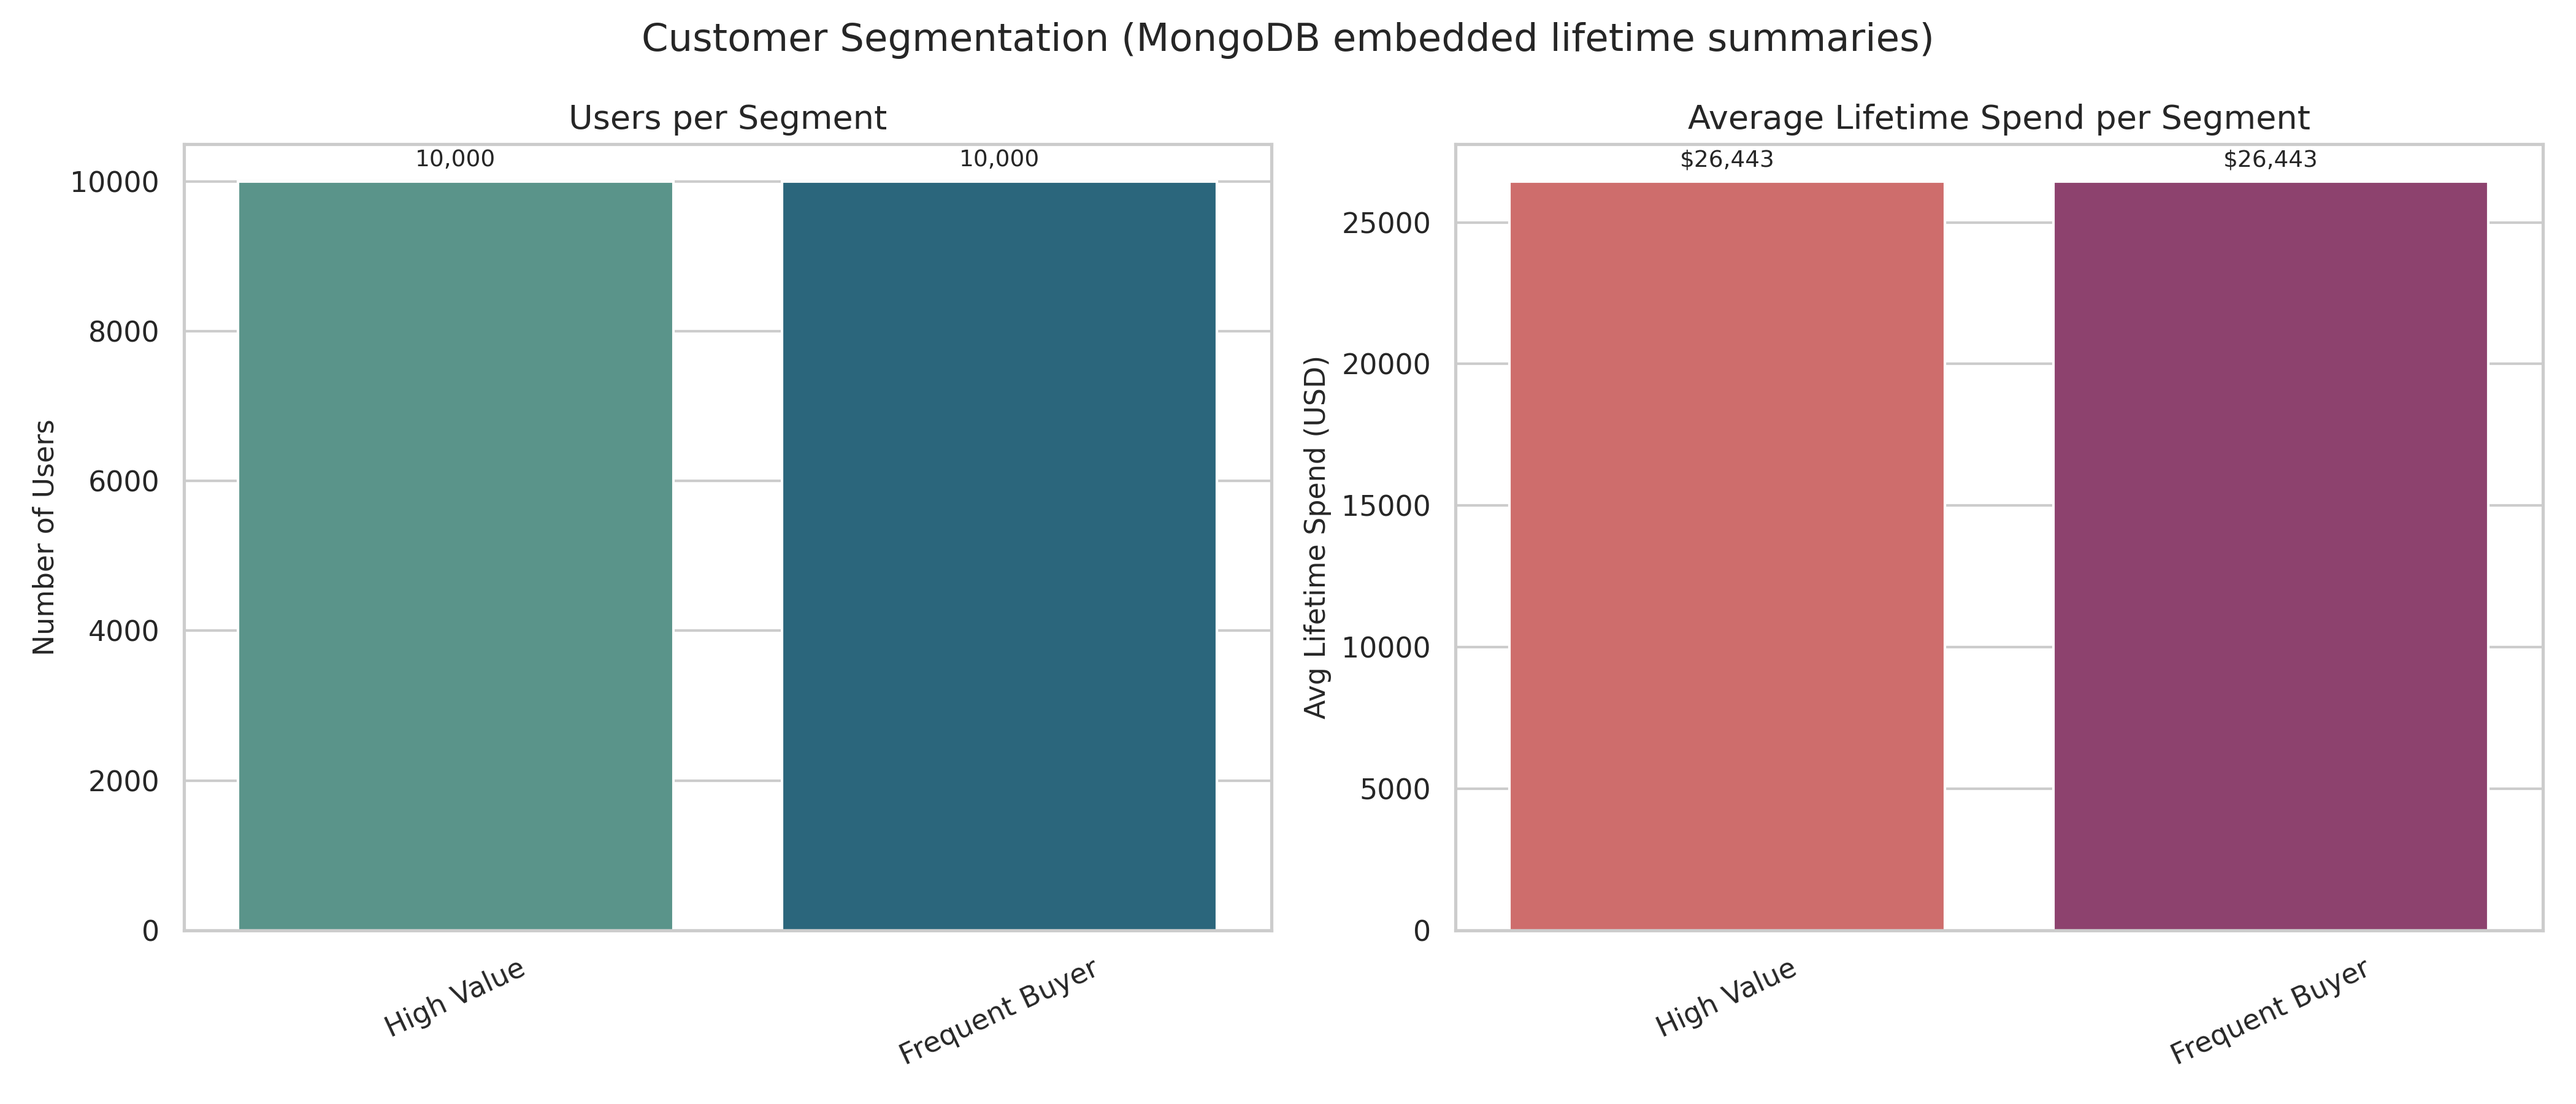
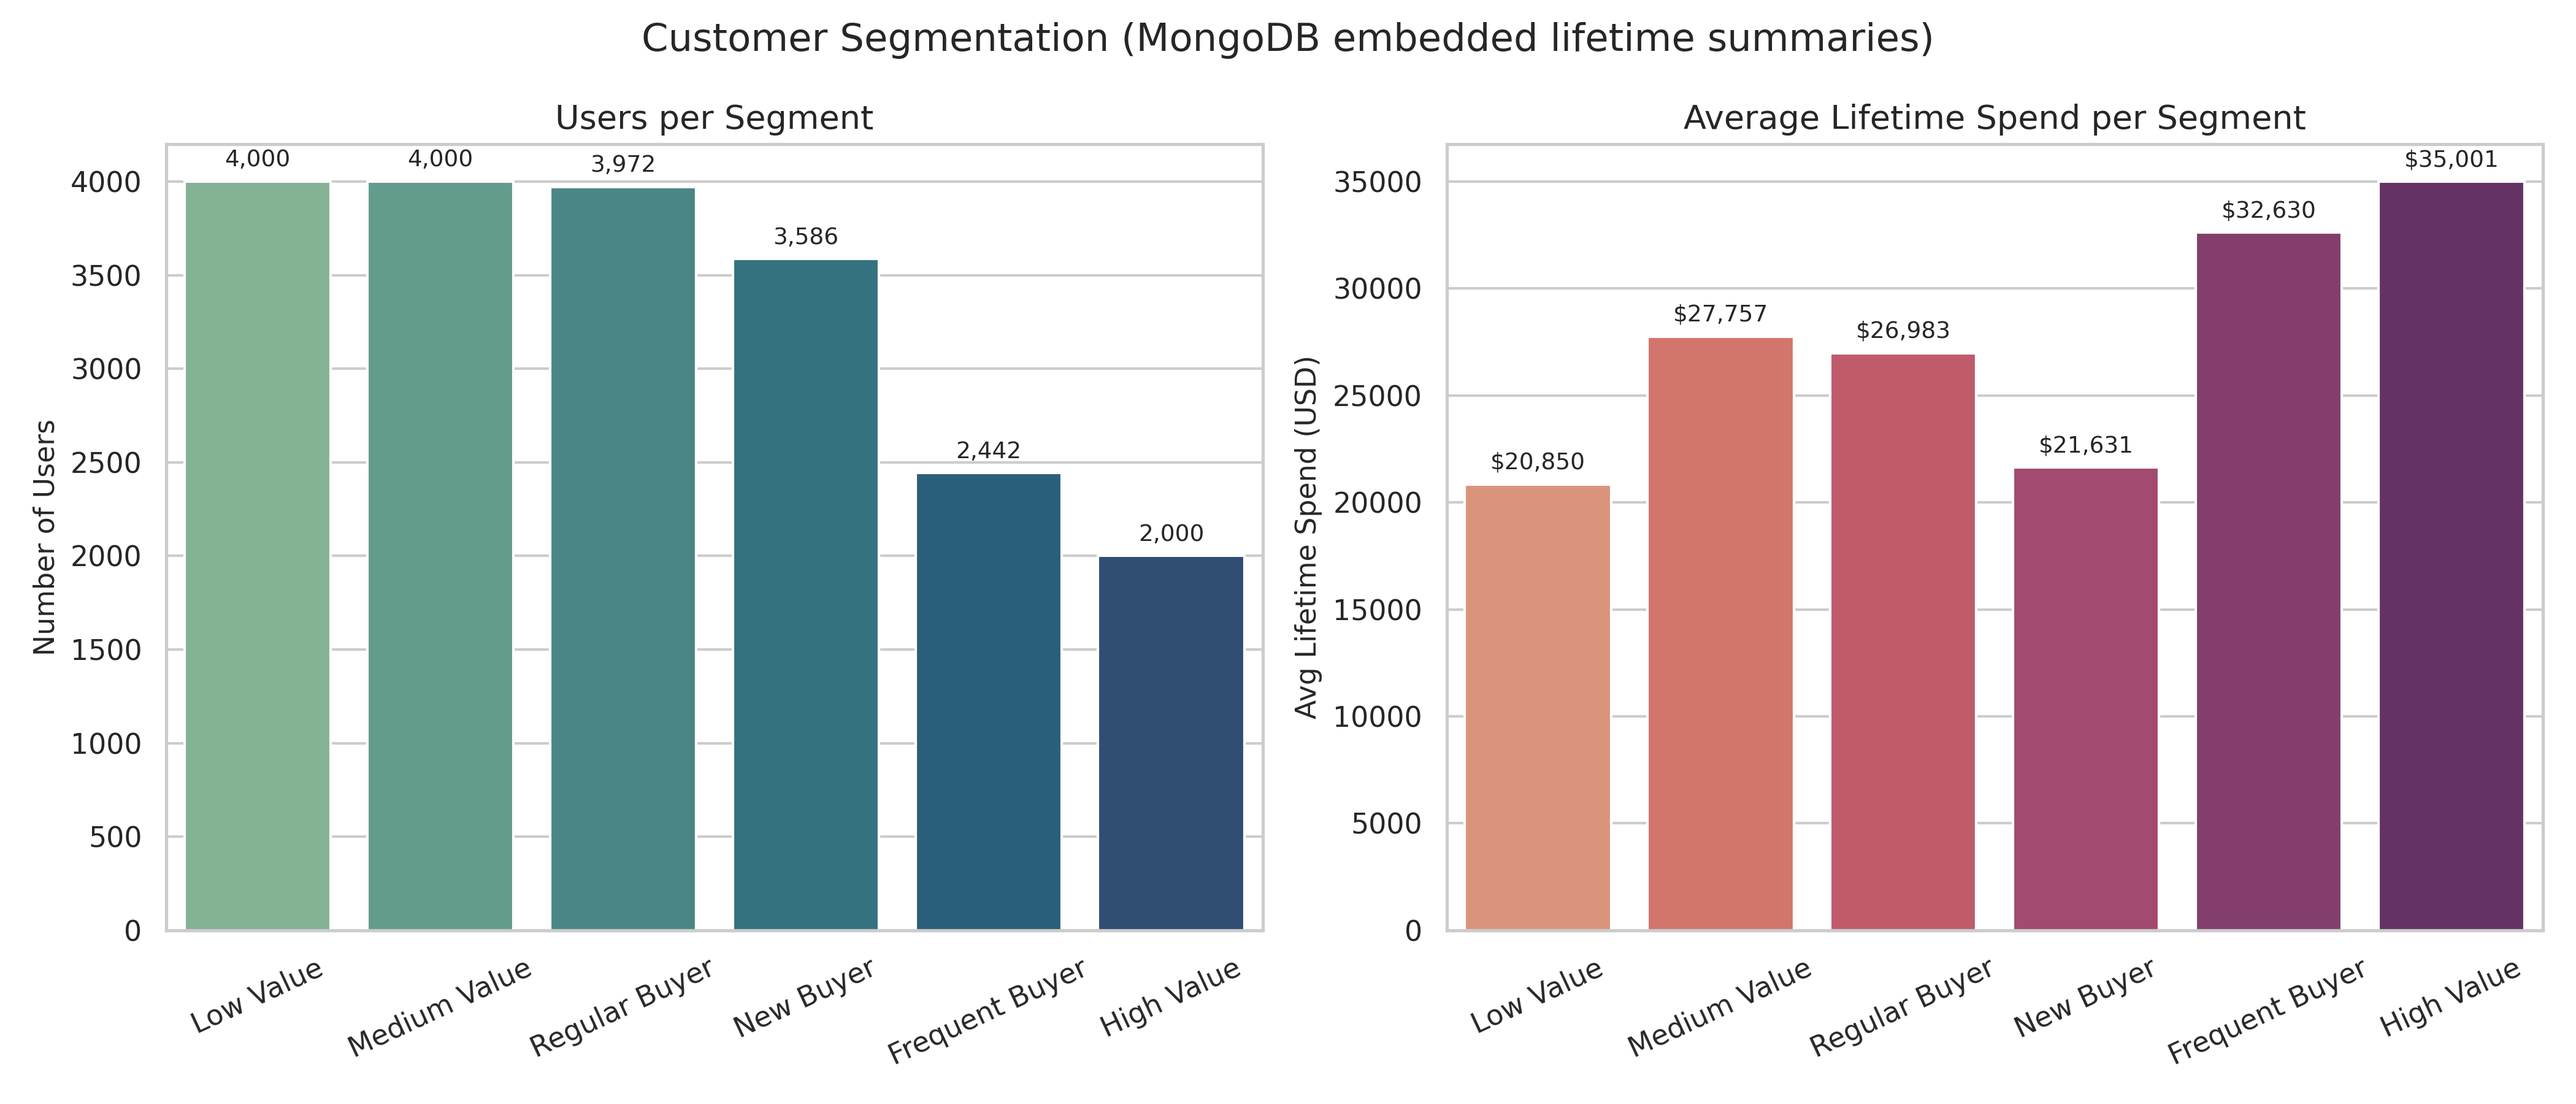
Fix: small bugs

diff --git a/1_load_to_mongodb.py b/1_load_to_mongodb.py
@@ -267,6 +267,9 @@ def load_mongodb():
     for result in db.transactions.aggregate(pipeline):
         user_stats[result["_id"]] = result
 
+    # Derive segment boundaries from the observed distribution before tagging
+    thresholds = compute_segmentation_thresholds(user_stats)
+
     # Update users with their lifetime summaries
     for user_id, stats in user_stats.items():
         db.users.update_one(
@@ -279,7 +282,7 @@ def load_mongodb():
                     "lifetime_summary.first_purchase_date": stats["first_purchase"],
                     "lifetime_summary.last_purchase_date": stats["last_purchase"],
                     # Add segmentation tag based on spending
-                    "segmentation_tags": get_segmentation_tags(stats),
+                    "segmentation_tags": get_segmentation_tags(stats, thresholds),
                 }
             },
         )
@@ -293,20 +296,57 @@ def load_mongodb():
     client.close()
 
 
-def get_segmentation_tags(stats):
-    """Determine user segmentation tags based on purchase behavior"""
+def compute_segmentation_thresholds(user_stats):
+    """
+    Derive segment boundaries from the observed distribution rather than from
+    fixed dollar amounts.
+
+    Fixed thresholds are only meaningful relative to a known average order
+    value. On this dataset the mean lifetime spend is roughly $26,000 across
+    ~32 completed purchases per user, so absolute cut-offs of $1,000 and 10
+    purchases place every single user in the top tier and leave the lower
+    tiers empty. Quantiles adapt to whatever distribution is present and keep
+    the segments populated as catalogue and order value shift.
+    """
+    spends = sorted(s["total_spent"] for s in user_stats.values())
+    counts = sorted(s["transaction_count"] for s in user_stats.values())
+
+    def pct(sorted_vals, q):
+        if not sorted_vals:
+            return 0
+        idx = min(int(len(sorted_vals) * q), len(sorted_vals) - 1)
+        return sorted_vals[idx]
+
+    thresholds = {
+        "spend_high": pct(spends, 0.80),    # top 20% by spend
+        "spend_mid": pct(spends, 0.40),     # middle 40%
+        "count_high": pct(counts, 0.80),    # top 20% by frequency
+        "count_mid": pct(counts, 0.40),
+    }
+
+    logger.info(
+        "Segmentation thresholds (quantile-derived): "
+        f"spend p80=${thresholds['spend_high']:,.0f}, "
+        f"p40=${thresholds['spend_mid']:,.0f}; "
+        f"count p80={thresholds['count_high']}, p40={thresholds['count_mid']}"
+    )
+    return thresholds
+
+
+def get_segmentation_tags(stats, thresholds):
+    """Assign value and frequency tags relative to the cohort distribution."""
     tags = []
 
-    if stats["total_spent"] > 1000:
+    if stats["total_spent"] >= thresholds["spend_high"]:
         tags.append("high_value")
-    elif stats["total_spent"] > 500:
+    elif stats["total_spent"] >= thresholds["spend_mid"]:
         tags.append("medium_value")
     elif stats["total_spent"] > 0:
         tags.append("low_value")
 
-    if stats["transaction_count"] > 10:
+    if stats["transaction_count"] >= thresholds["count_high"]:
         tags.append("frequent_buyer")
-    elif stats["transaction_count"] > 3:
+    elif stats["transaction_count"] >= thresholds["count_mid"]:
         tags.append("regular_buyer")
     elif stats["transaction_count"] > 0:
         tags.append("new_buyer")
